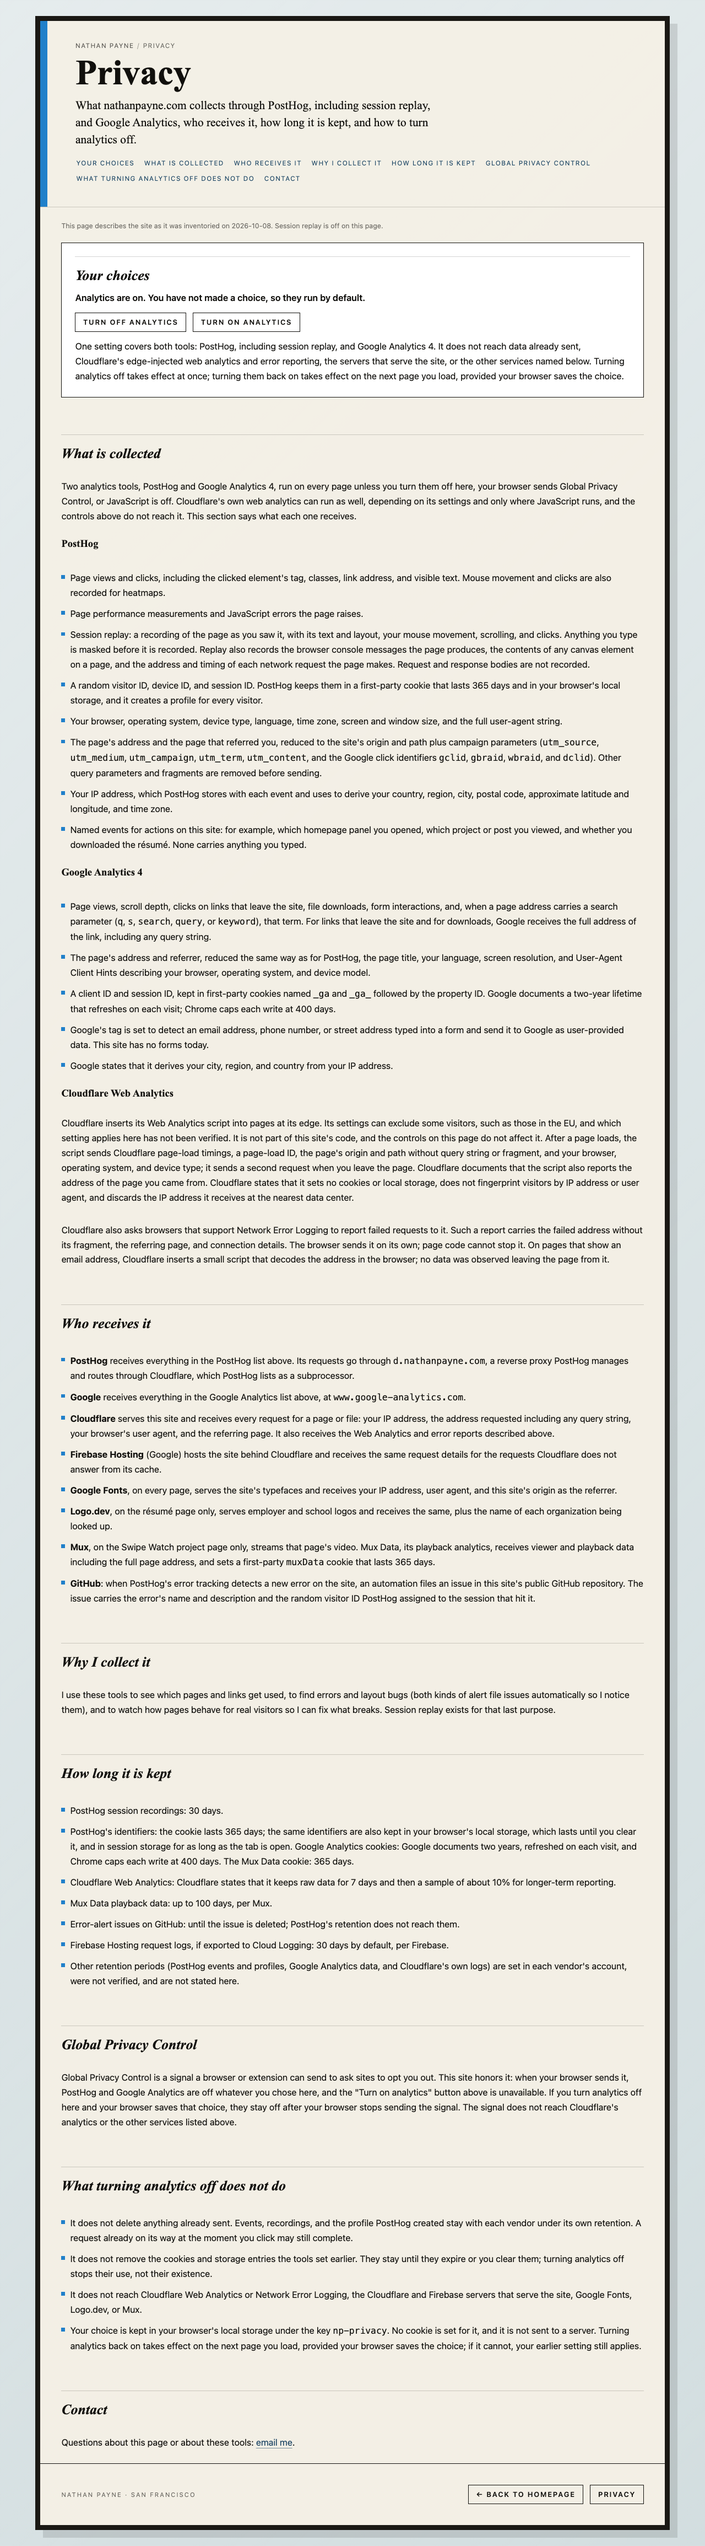
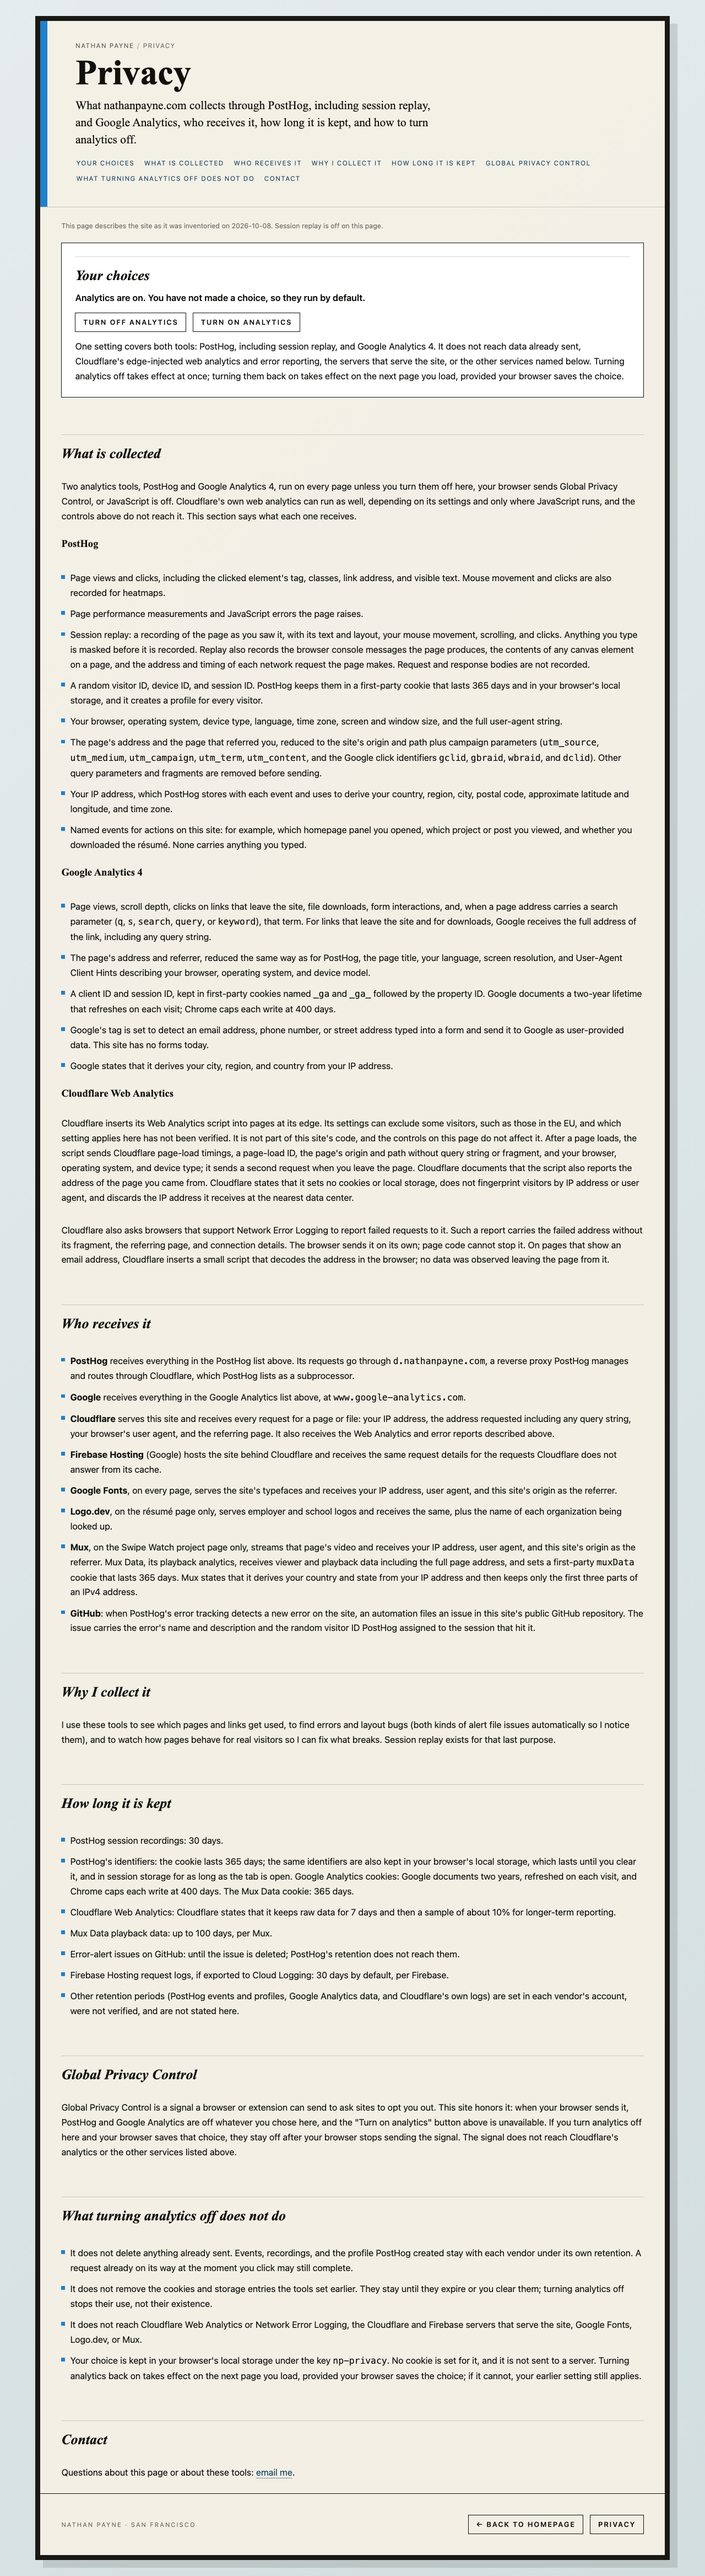
fix: stop saying analytics are on before the next load; complete the Mux row (#1256)
* fix: stop saying analytics are on before the next load; complete the Mux row (#1252)

- Controls: a grant after a denial in the same page view no longer says
  "Analytics are on". It says the setting is back on, that the tools stay
  off on this page, and that they start on the next page (section Re-Enable 1).
  When another tab clears the saved denial, it says no choice is saved and
  the default applies from the next page.
- /privacy/: the Mux row now lists what the video requests carry (IP
  address, user agent, origin-only referrer) and Mux's own statement that
  it derives country and state from the IP and truncates IPv4 addresses
  (inventory section Other Third Parties).

* chore: refresh /privacy/ screenshots for the Mux row (#1252)

---------

Changed region(s): [[0.0938, 0.0312, 0.9062, 0.9667], [0.4688, 0.0312, 0.5625, 0.0624], [0.75, 0.9667, 0.8125, 0.9978]]

diff --git a/tests/privacy-ui.test.js b/tests/privacy-ui.test.js
@@ -332,7 +332,7 @@ describe('controls (PRIV-10, PRIV-14)', () => {
     expect(stored(w).choice).toBe('granted');
     expect(privacy.get().effective).toBe('granted');
     expect(statusOf(d)).toBe(
-      'Analytics are on. You turned them on. They start on the next page you load.',
+      'You turned analytics back on. They stay off on this page and start on the next page you load.',
     );
   });
 
@@ -343,7 +343,30 @@ describe('controls (PRIV-10, PRIV-14)', () => {
     expect(statusOf(granted.d)).toBe('Analytics are on. You turned them on.');
     // Re-enabling after a denied load is the case the note exists for.
     click(denied.w, denied.d.querySelector('[data-np-privacy-action="grant"]'));
-    expect(statusOf(denied.d)).toContain('They start on the next page you load.');
+    expect(statusOf(denied.d)).toBe(
+      'You turned analytics back on. They stay off on this page and start on the next page you load.',
+    );
+  });
+
+  it('never says analytics are on while a re-enable waits for the next load (#1252)', () => {
+    // Another tab clears the saved denial: the default applies again, but
+    // nothing restarts on this page.
+    const { w, d, privacy } = mountControls({
+      stored: JSON.stringify({ v: 1, choice: 'denied', noticeDismissed: false }),
+    });
+    otherTabWrites(w, { v: 1, choice: 'unset', noticeDismissed: false });
+    expect(privacy.get()).toMatchObject({ effective: 'granted', reason: 'default' });
+    expect(statusOf(d)).toBe(
+      'No choice is saved now, so analytics run by default. They stay off on this page and start on the next page you load.',
+    );
+    // And a local re-enable after a local opt-out.
+    const local = mountControls();
+    click(local.w, local.d.querySelector('[data-np-privacy-action="deny"]'));
+    click(local.w, local.d.querySelector('[data-np-privacy-action="grant"]'));
+    for (const text of [statusOf(d), statusOf(local.d)]) {
+      expect(text).not.toMatch(/^Analytics are on/);
+      expect(text).toContain('stay off on this page');
+    }
   });
 
   it('with GPC active, shows why analytics are off and makes re-enabling unavailable', () => {

diff --git a/src/components/privacy/ui/controls.js b/src/components/privacy/ui/controls.js
@@ -35,6 +35,14 @@
   var lastEffective = privacy.get().effective;
 
   function describe(state) {
+    if (state.effective === 'granted' && resumesNextLoad && state.persisted) {
+      // § Re-Enable 1: a grant after a denial in this page view loads nothing
+      // here, so the tools are not running now. Say what was saved and when
+      // it takes effect, not "Analytics are on" (#1252).
+      return state.reason === 'choice'
+        ? 'You turned analytics back on. They stay off on this page and start on the next page you load.'
+        : 'No choice is saved now, so analytics run by default. They stay off on this page and start on the next page you load.';
+    }
     var parts = [];
     if (state.reason === 'gpc') {
       parts.push('Analytics are off because your browser sends Global Privacy Control.');
@@ -63,7 +71,6 @@
           ? 'Your browser did not save this choice, so it applies only to this page. Analytics stopped on this page when you turned them off and do not restart here. The next page you load uses whatever setting your browser last saved.'
           : 'Your browser did not save this choice, so it applies only to this page, and analytics did not load on this page. The next page you load uses whatever setting your browser last saved.';
       }
-      parts.push('They start on the next page you load.');
     }
     if (!state.persisted) {
       // § Storage 3: the write failed; the choice is in memory for this page.

diff --git a/tests/privacy-ui/ui.pw.ts b/tests/privacy-ui/ui.pw.ts
@@ -264,7 +264,7 @@ test('turning analytics off from the notice is one step and holds across loads; 
   await expect(status(page)).toHaveText('Analytics are off. You turned them off.');
   await controlAction(page, 'grant').click();
   await expect(status(page)).toHaveText(
-    'Analytics are on. You turned them on. They start on the next page you load.',
+    'You turned analytics back on. They stay off on this page and start on the next page you load.',
   );
   await page.reload();
   await expect(status(page)).toHaveText('Analytics are on. You turned them on.');
